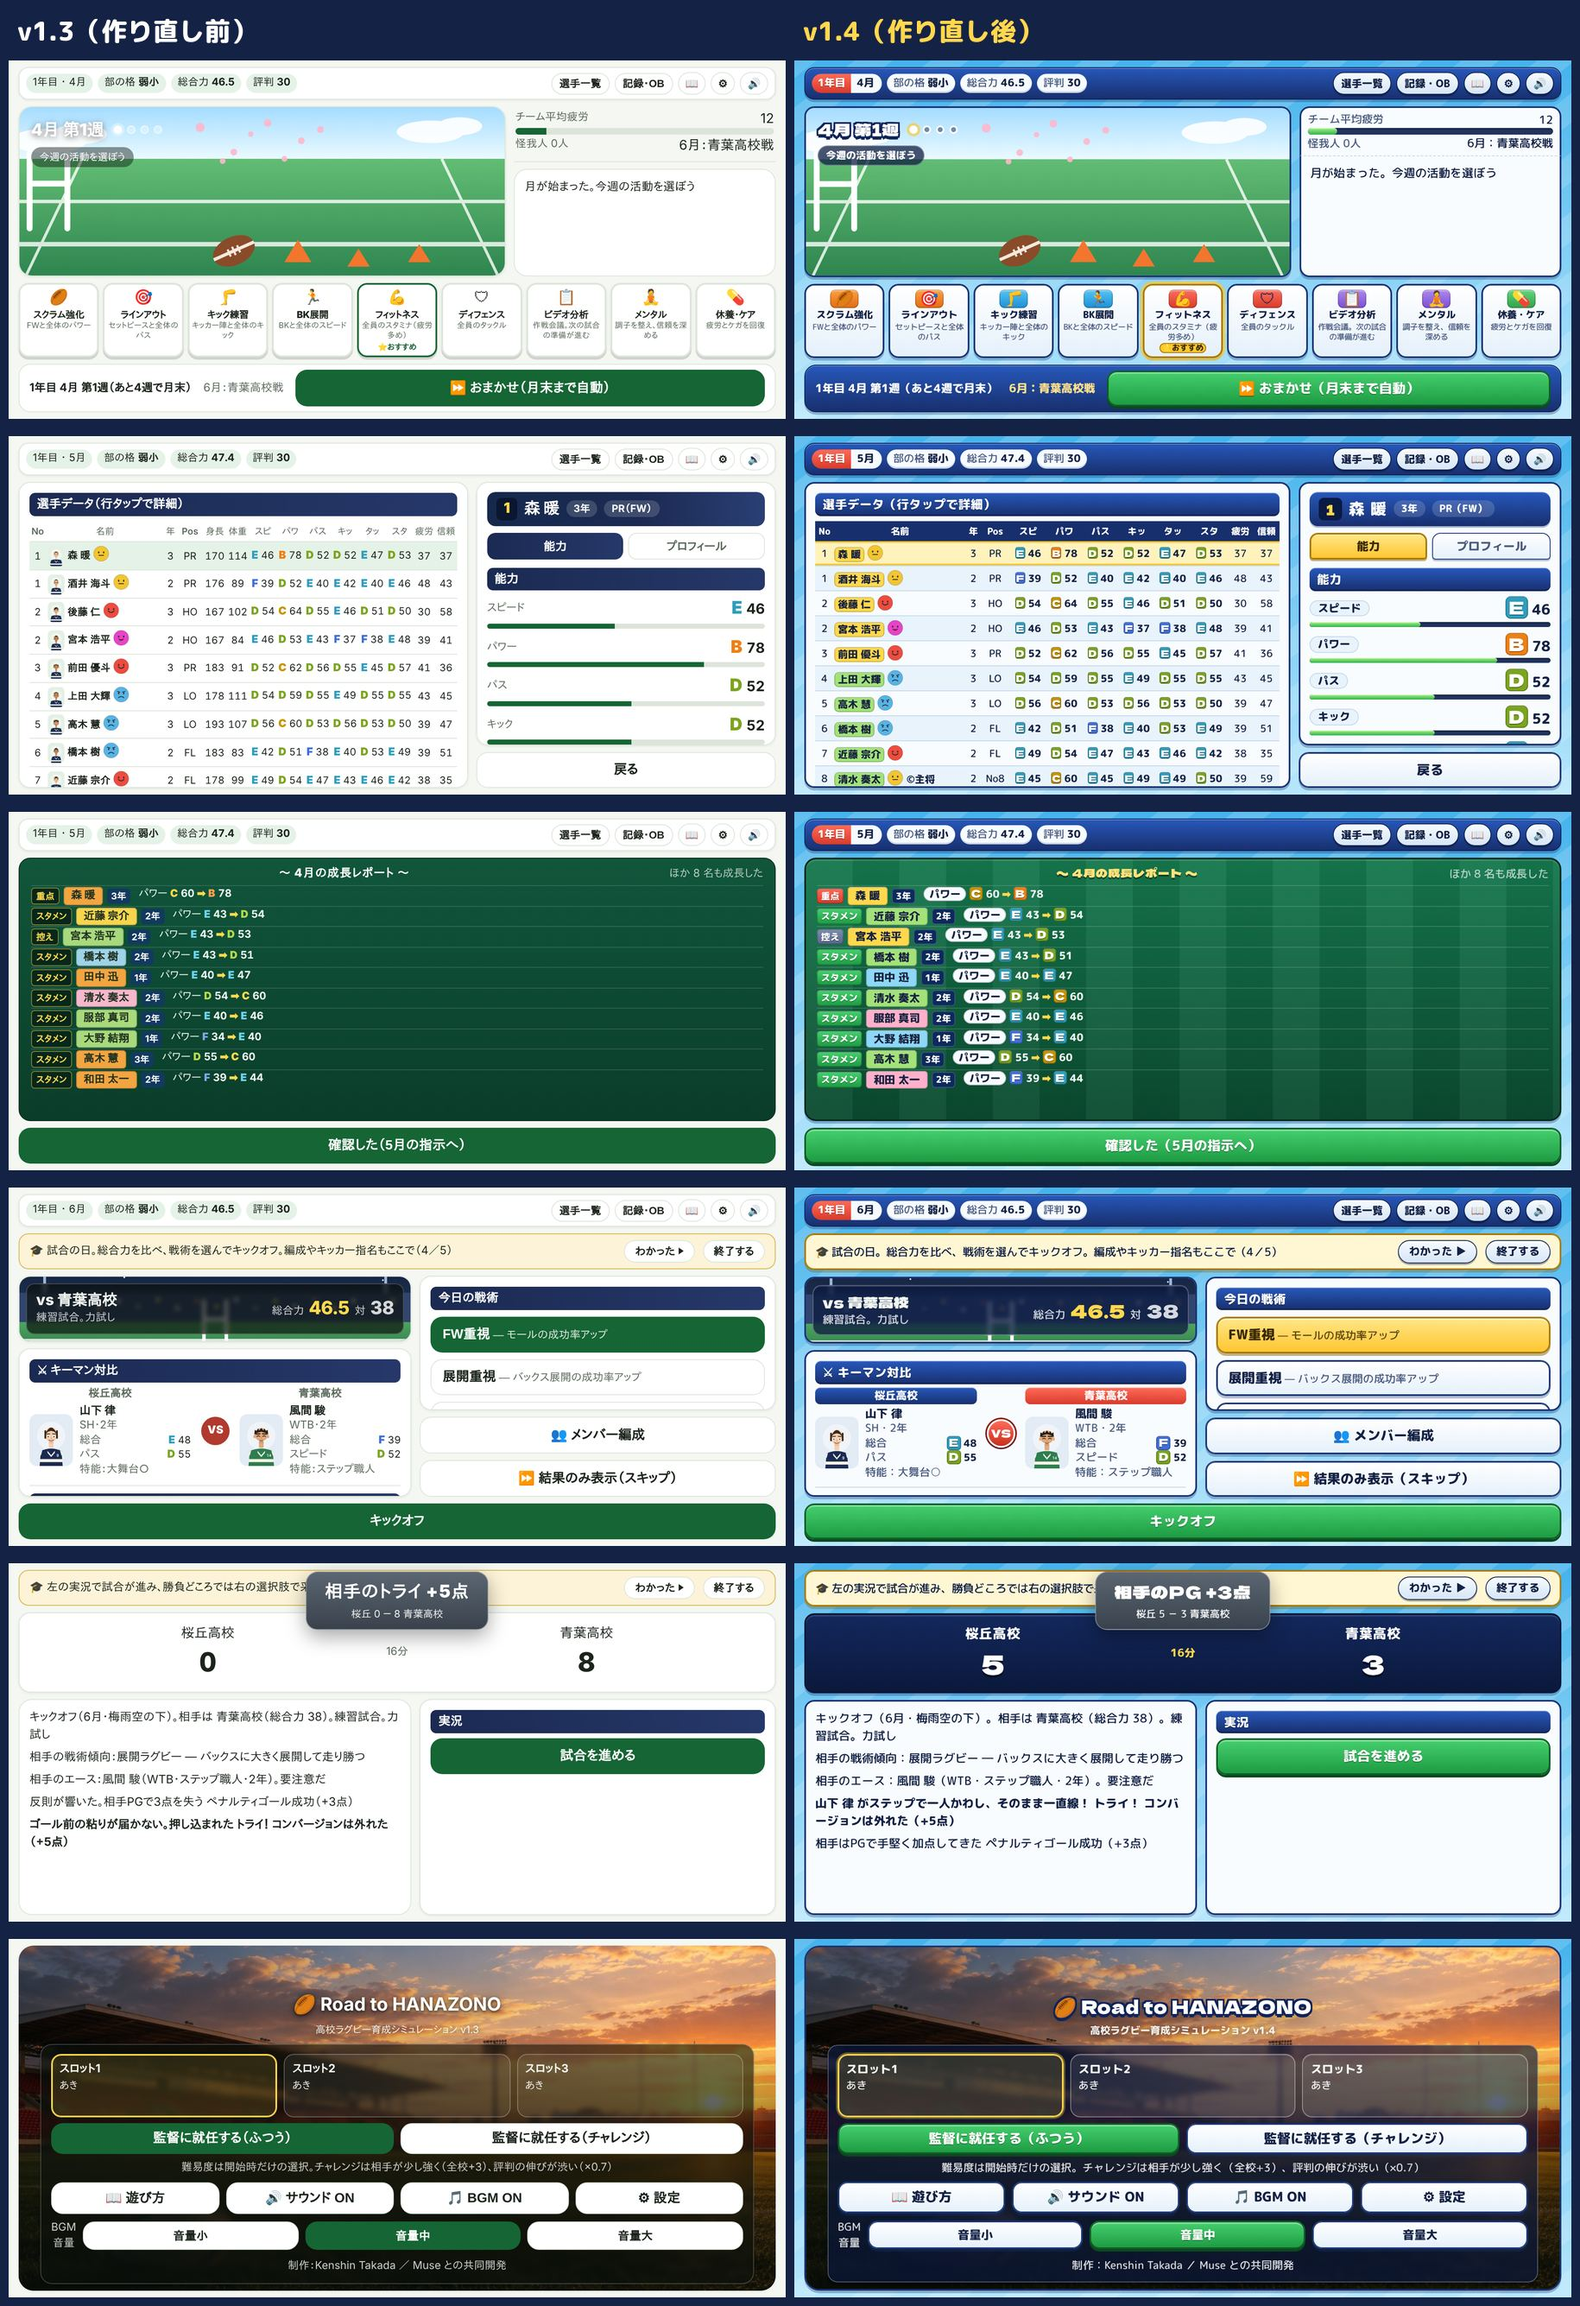
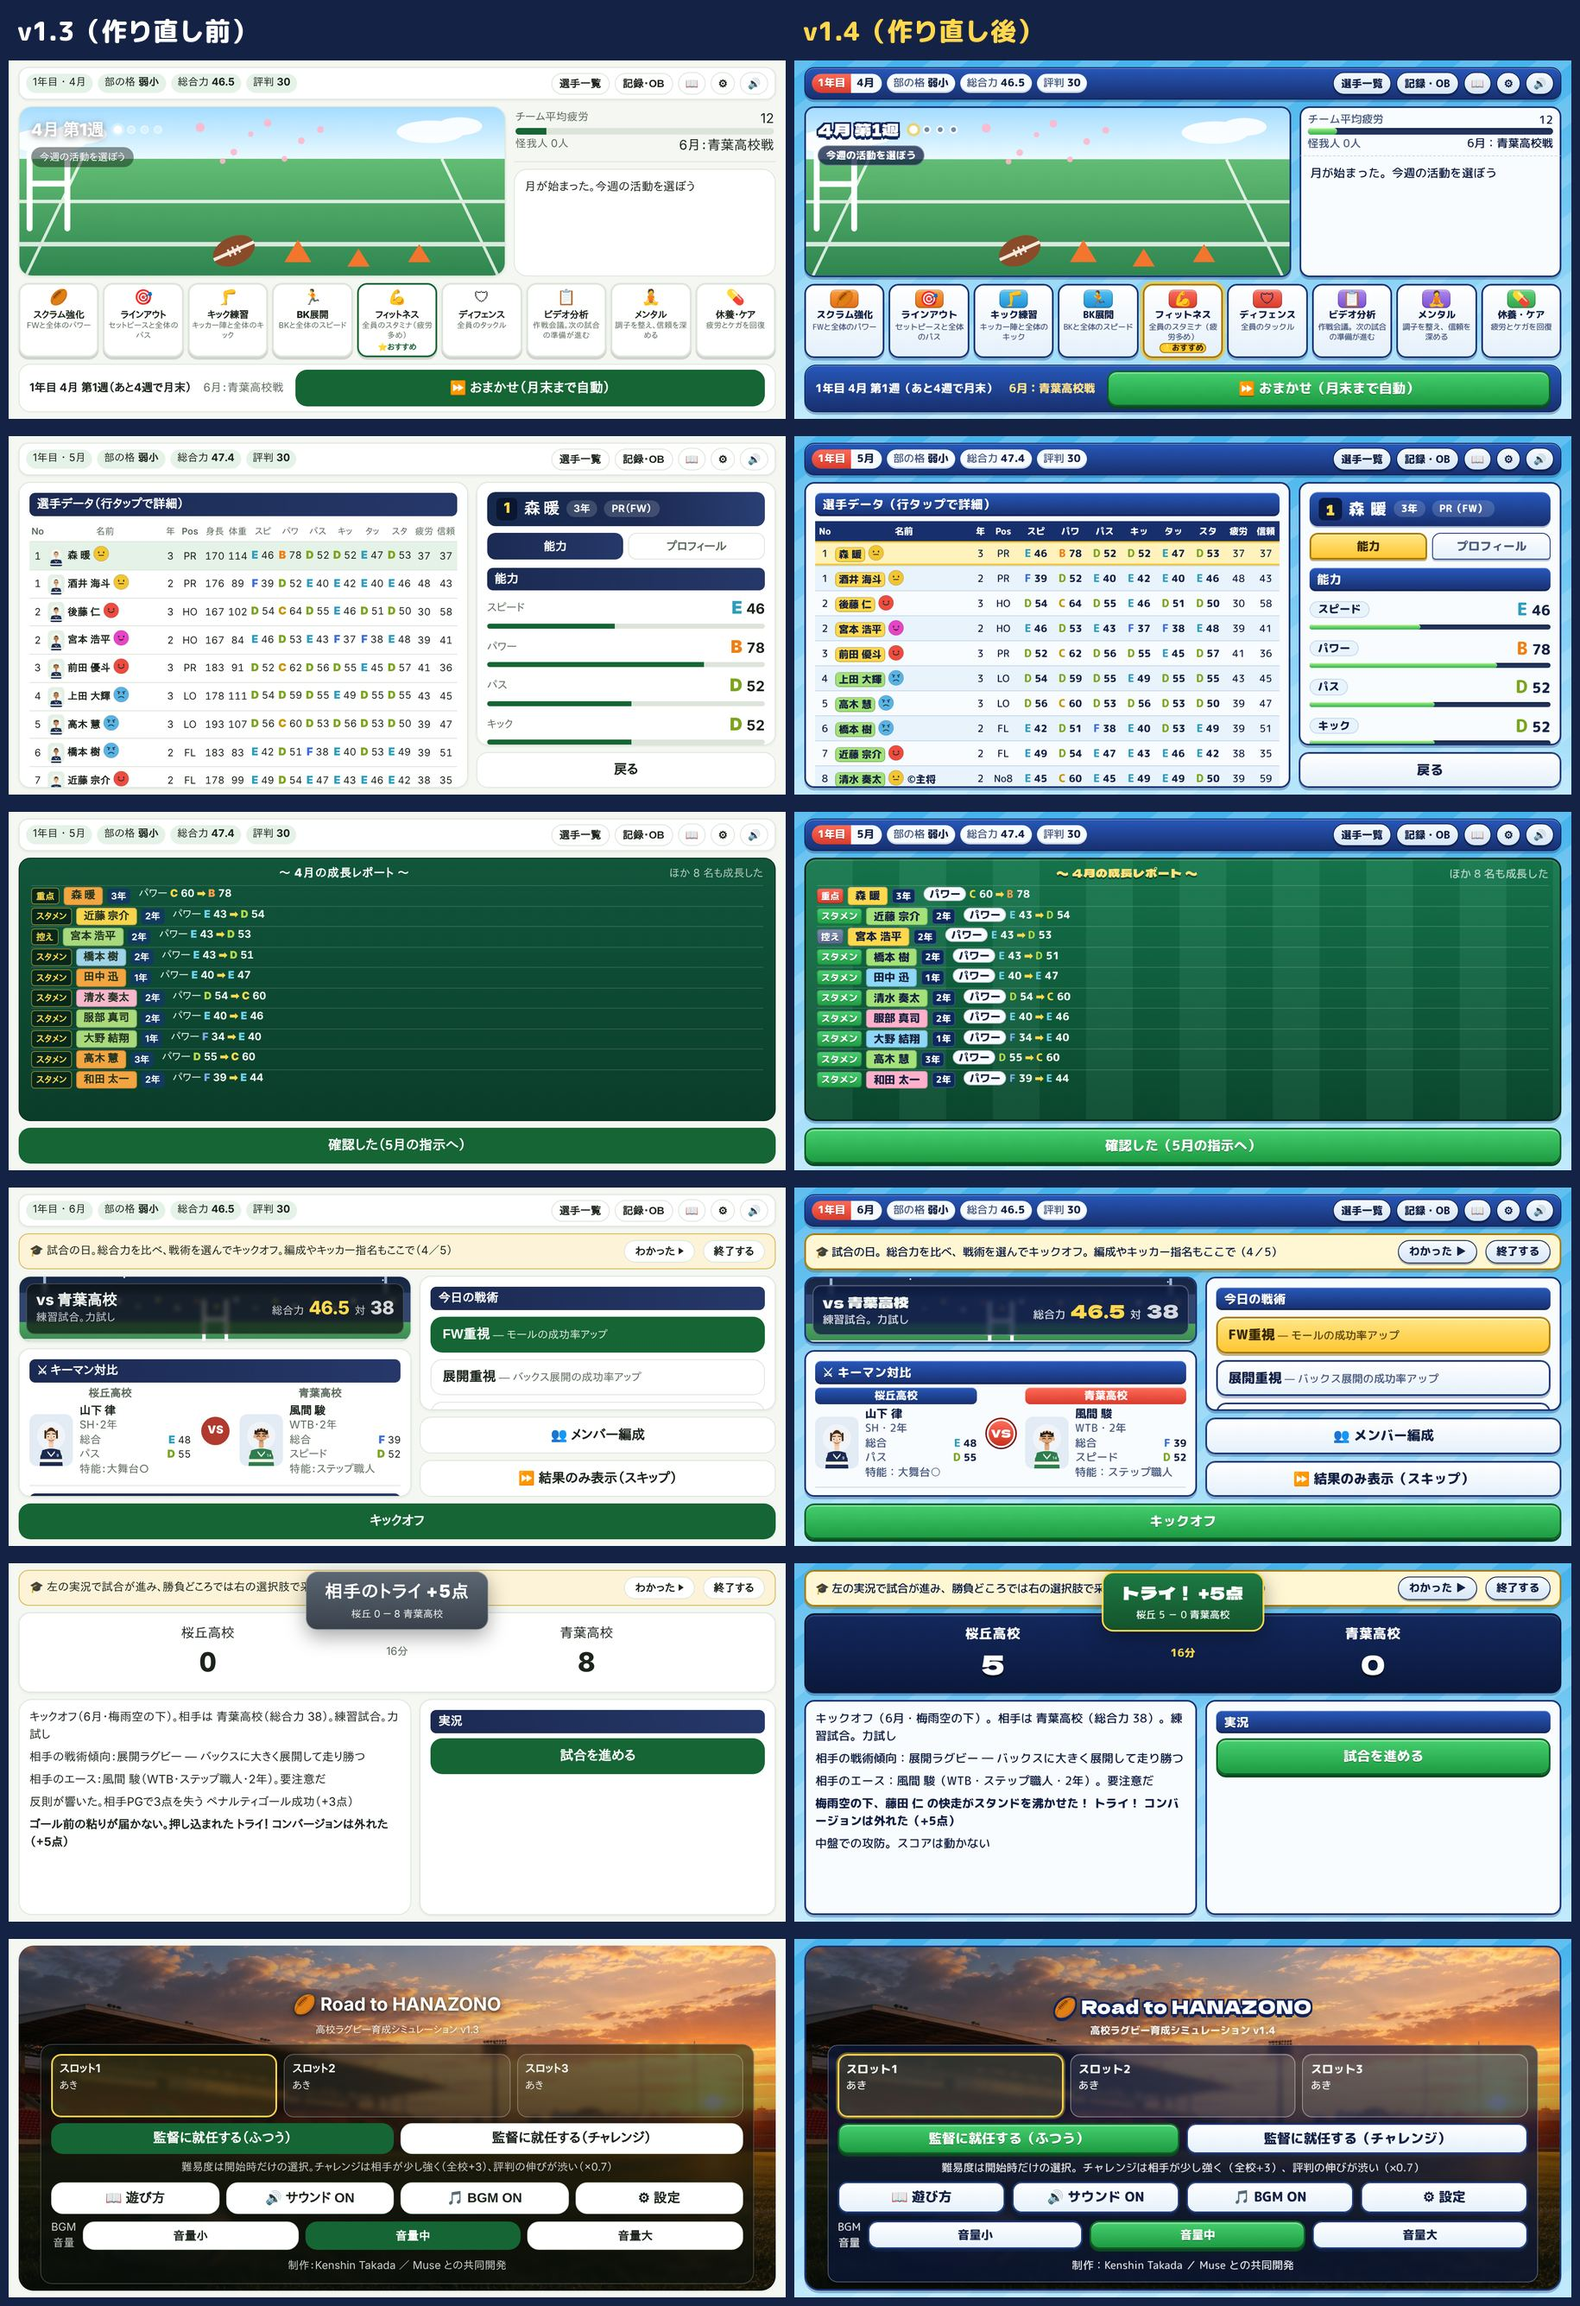
review_v29：ランクの手直し後の回帰・画面監査の結果
回帰29本パス。ライト69・ダーク69・iPhone 実寸165画面で問題0・エラー0・枠の入れ子0。
ランクの出る画面をライトとダークで目視確認。比較画像を手直し後のスクショで作り直した。

Claude-Session: https://claude.ai/code/session_014iqQq3M1DRGNunrAuoyFnj

diff --git a/review_v29/notes.md b/review_v29/notes.md
@@ -120,4 +120,9 @@
 - CSS だけの変更（game.js は不変）なので、ソークは省いた（`SKIP_SOAK=1`。乱数・数値は変わらない）。
 - qa_v29：札の色の検査を「札の地を付けない・白で塗らない・ナイターは cb・金の選択の上は濃い色」に置き換え（57項目）。
   置き換えた検査が前の札の CSS では落ちることも確かめた。
-- 回帰と画面監査：（実行中。結果が出たら追記する）
+- 回帰：qa_proto〜qa_v29 の29本すべてパス（`regression.log`）。
+- 画面監査（フォントの読み込み後・hscroll 込み）：ライト69画面・ダーク69画面・iPhone 実寸 5機種×33画面＝165画面で問題0、
+  コンソールエラー0、枠の入れ子0。札の余白がなくなった分、選手一覧の列はわずかに狭くなった。
+- ランクの出る画面（月頭指示・成長レポート・選手一覧・試合前のキーマン対比・メンバー編成・新入生・比較表）をライトと
+  ダークで目視：どれも読める。ナイターの F（青）・G（紫）も紺の上で見える。
+- `before_after.jpg` は手直し後のスクリーンショットで作り直した（右＝色の文字のランク）。
